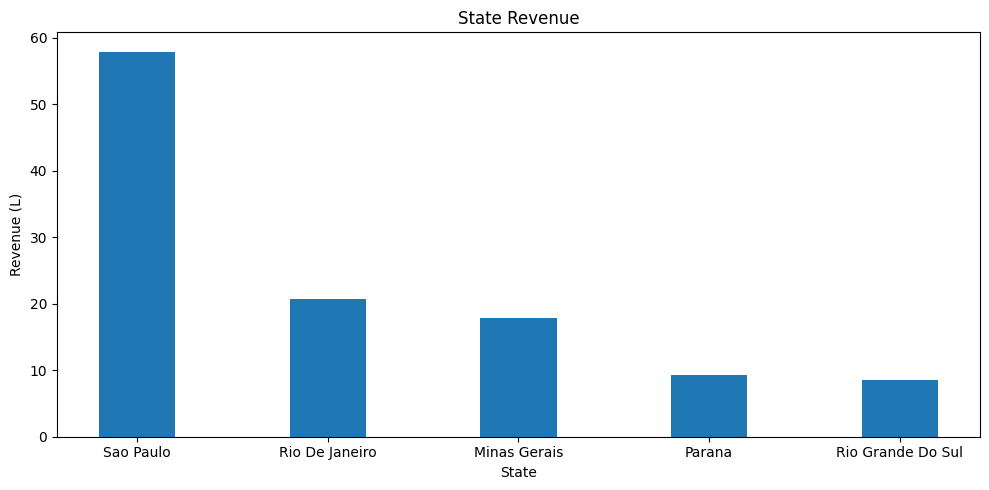
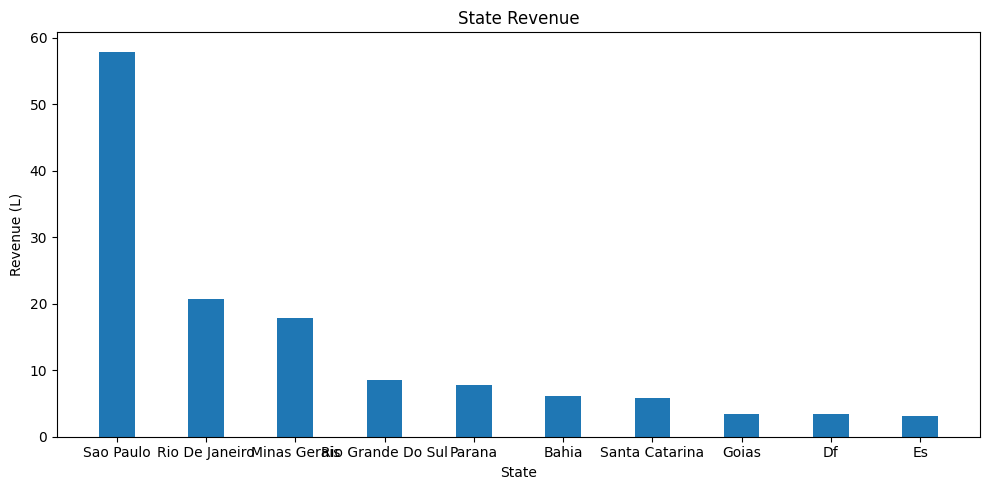
project complete :)

Changed region(s): [[0.091, 0.0918, 0.7887, 0.949], [0.819, 0.7653, 0.9707, 0.949]]

diff --git a/airflow/dags/tasks/analytics_tasks.py b/airflow/dags/tasks/analytics_tasks.py
@@ -1,7 +1,7 @@
 from airflow.decorators import task
 from datetime import timedelta
 import logging
-from analytics.analysis.cust_analysis import get_top_customers,get_repeat_customers,get_revenue_per_customer
+from analytics.analysis.cust_analysis import get_top_customers,get_repeat_customers
 from analytics.analysis.rev_analysis import get_monthly_revenue,get_revenue_by_state
 from analytics.analysis.prod_analysis import get_product_contribution
 
@@ -11,7 +11,6 @@ log=logging.getLogger(__name__)
 def analytics_task():
     top_cust=get_top_customers()
     repeat_cust=get_repeat_customers()
-    rev_per_cust=get_revenue_per_customer()
     monthly_rev=get_monthly_revenue()
     state_rev=get_revenue_by_state()
     prod_contribution=get_product_contribution()
@@ -23,11 +22,6 @@ def analytics_task():
 
     repeat_cust.to_csv(
         "analytics/reports/repeat_customers.csv",
-        index=False
-    )
-    
-    rev_per_cust.to_csv(
-        "analytics/reports/revenue_per_customer.csv",
         index=False
     )
 

diff --git a/python_scripts/silver_validation.py b/python_scripts/silver_validation.py
@@ -34,7 +34,7 @@ def silver_orders_validation(df):
     
 def silver_review_validation(df):
     # Check rev_score
-    if not df['rev_score'].between(1,5).all():
+    if not df['rev_score'].dropna().between(1,5).all():
         log.error('review scores are unexpected')
         raise ValueError('review scores are unexpected')
     

diff --git a/readme.md b/readme.md
@@ -1,12 +1,179 @@
-# Enterprise Retail Data Engineering Pipeline
+# 🛒 Retail Data Engineering Pipeline
 
-Tech Stack:
-- Python
-- Pandas
-- NumPy
-- PostgreSQL
-- PySpark
-- Apache Airflow
+An end-to-end Data Engineering project that automates retail data ingestion, transformation, warehousing, analytics, and reporting using **Python, PostgreSQL, PySpark, Pandas, Numpy, and Apache Airflow**.
 
-Architecture:
-Raw → Bronze → Silver → Gold → Warehouse
+---
+
+## 🚀 Project Overview
+
+This project follows the **Medallion Architecture**:
+
+```text
+Raw Data
+   ↓
+🥉 Bronze
+   ↓
+🥈 Silver
+   ↓
+🥇 Gold
+   ↓
+📊 Analytics
+   ↓
+📈 Reports
+```
+
+The entire workflow is orchestrated using **Apache Airflow**, enabling automated and scheduled execution of the pipeline.
+
+---
+
+## ⚙️ Airflow DAG Flow
+
+```text
+Wait for Raw Files
+        ↓
+Bronze Load
+        ↓
+Bronze Validation
+        ↓
+Silver Load
+        ↓
+Silver Validation
+        ↓
+Gold Load
+        ↓
+Gold Validation
+        ↓
+Analytics Generation
+        ↓
+Report Generation
+```
+
+Features implemented:
+
+* ⏰ Scheduled execution
+* 🔄 Task dependencies
+* 🔁 Retry mechanism
+* 📋 Task monitoring
+* 📑 Execution logs
+* 🚦 Data quality checkpoints
+
+---
+
+## 🛠️ Tech Stack
+
+| Category        | Tools                  |
+| --------------- | ---------------------- |
+| Language        | Python                 |
+| Database        | PostgreSQL             |
+| Data Processing | Pandas, NumPy, PySpark |
+| Orchestration   | Apache Airflow         |
+| Visualization   | Matplotlib             |
+| Environment     | WSL (Ubuntu)           |
+| Version Control | Git & GitHub           |
+
+---
+
+## 📊 Analytics Generated
+
+* 👥 Top Customers
+* 🔁 Repeat Customers
+* 💰 Revenue Per Customer
+* 📅 Monthly Revenue
+* 🌎 Revenue by State
+* 📦 Product Contribution Analysis
+
+---
+
+## 📁 Project Structure
+
+```text
+retail_management/
+│
+├── airflow/
+│   ├── dags/
+│   └── logs/
+│
+├── datasets/
+│   ├── bronze/
+│   ├── silver/
+│   └── gold/
+│
+├── analytics/
+│   ├── analysis/
+│   ├── reports/
+│   └── visualization/
+│
+├── python_scripts/
+├── sql/
+└── README.md
+```
+
+---
+
+## 🖥️ Setup
+
+```bash
+git clone <repository-url>
+cd retail_management
+
+python3 -m venv venv
+source venv/bin/activate
+
+pip install -r requirements.txt
+
+export AIRFLOW_HOME=$(pwd)/airflow
+export PYTHONPATH=$(pwd)
+```
+
+Start Airflow:
+
+```bash
+airflow scheduler
+```
+
+```bash
+airflow webserver --port 8080
+```
+
+Open:
+
+```text
+http://localhost:8080
+```
+
+---
+
+## 🎯 Key Learnings
+
+* ETL Pipeline Development
+* Medallion Architecture
+* Data Warehousing
+* Star Schema Design
+* Data Validation
+* Apache Airflow DAG Development
+* Workflow Orchestration
+* Analytics & Reporting
+* PySpark Fundamentals
+
+---
+
+## 📸 Screenshots
+
+Add:
+
+* Airflow DAG Graph
+![Airflow DAG](screenshots/airflow_graph.png)
+* Airflow Task Execution
+![Airflow Task](screenshots/airflow_task.png)
+* PostgreSQL Star Schema
+![PostgreSQL Task](screenshots/star_schema.png)
+* Sample Reports
+![Reports](screenshots/reports.png)
+
+---
+
+## 👨💻 Author
+
+**Aman Kumar**
+
+Built as a hands-on Data Engineering project to practice modern ETL pipelines, workflow orchestration, data warehousing, analytics, and reporting.